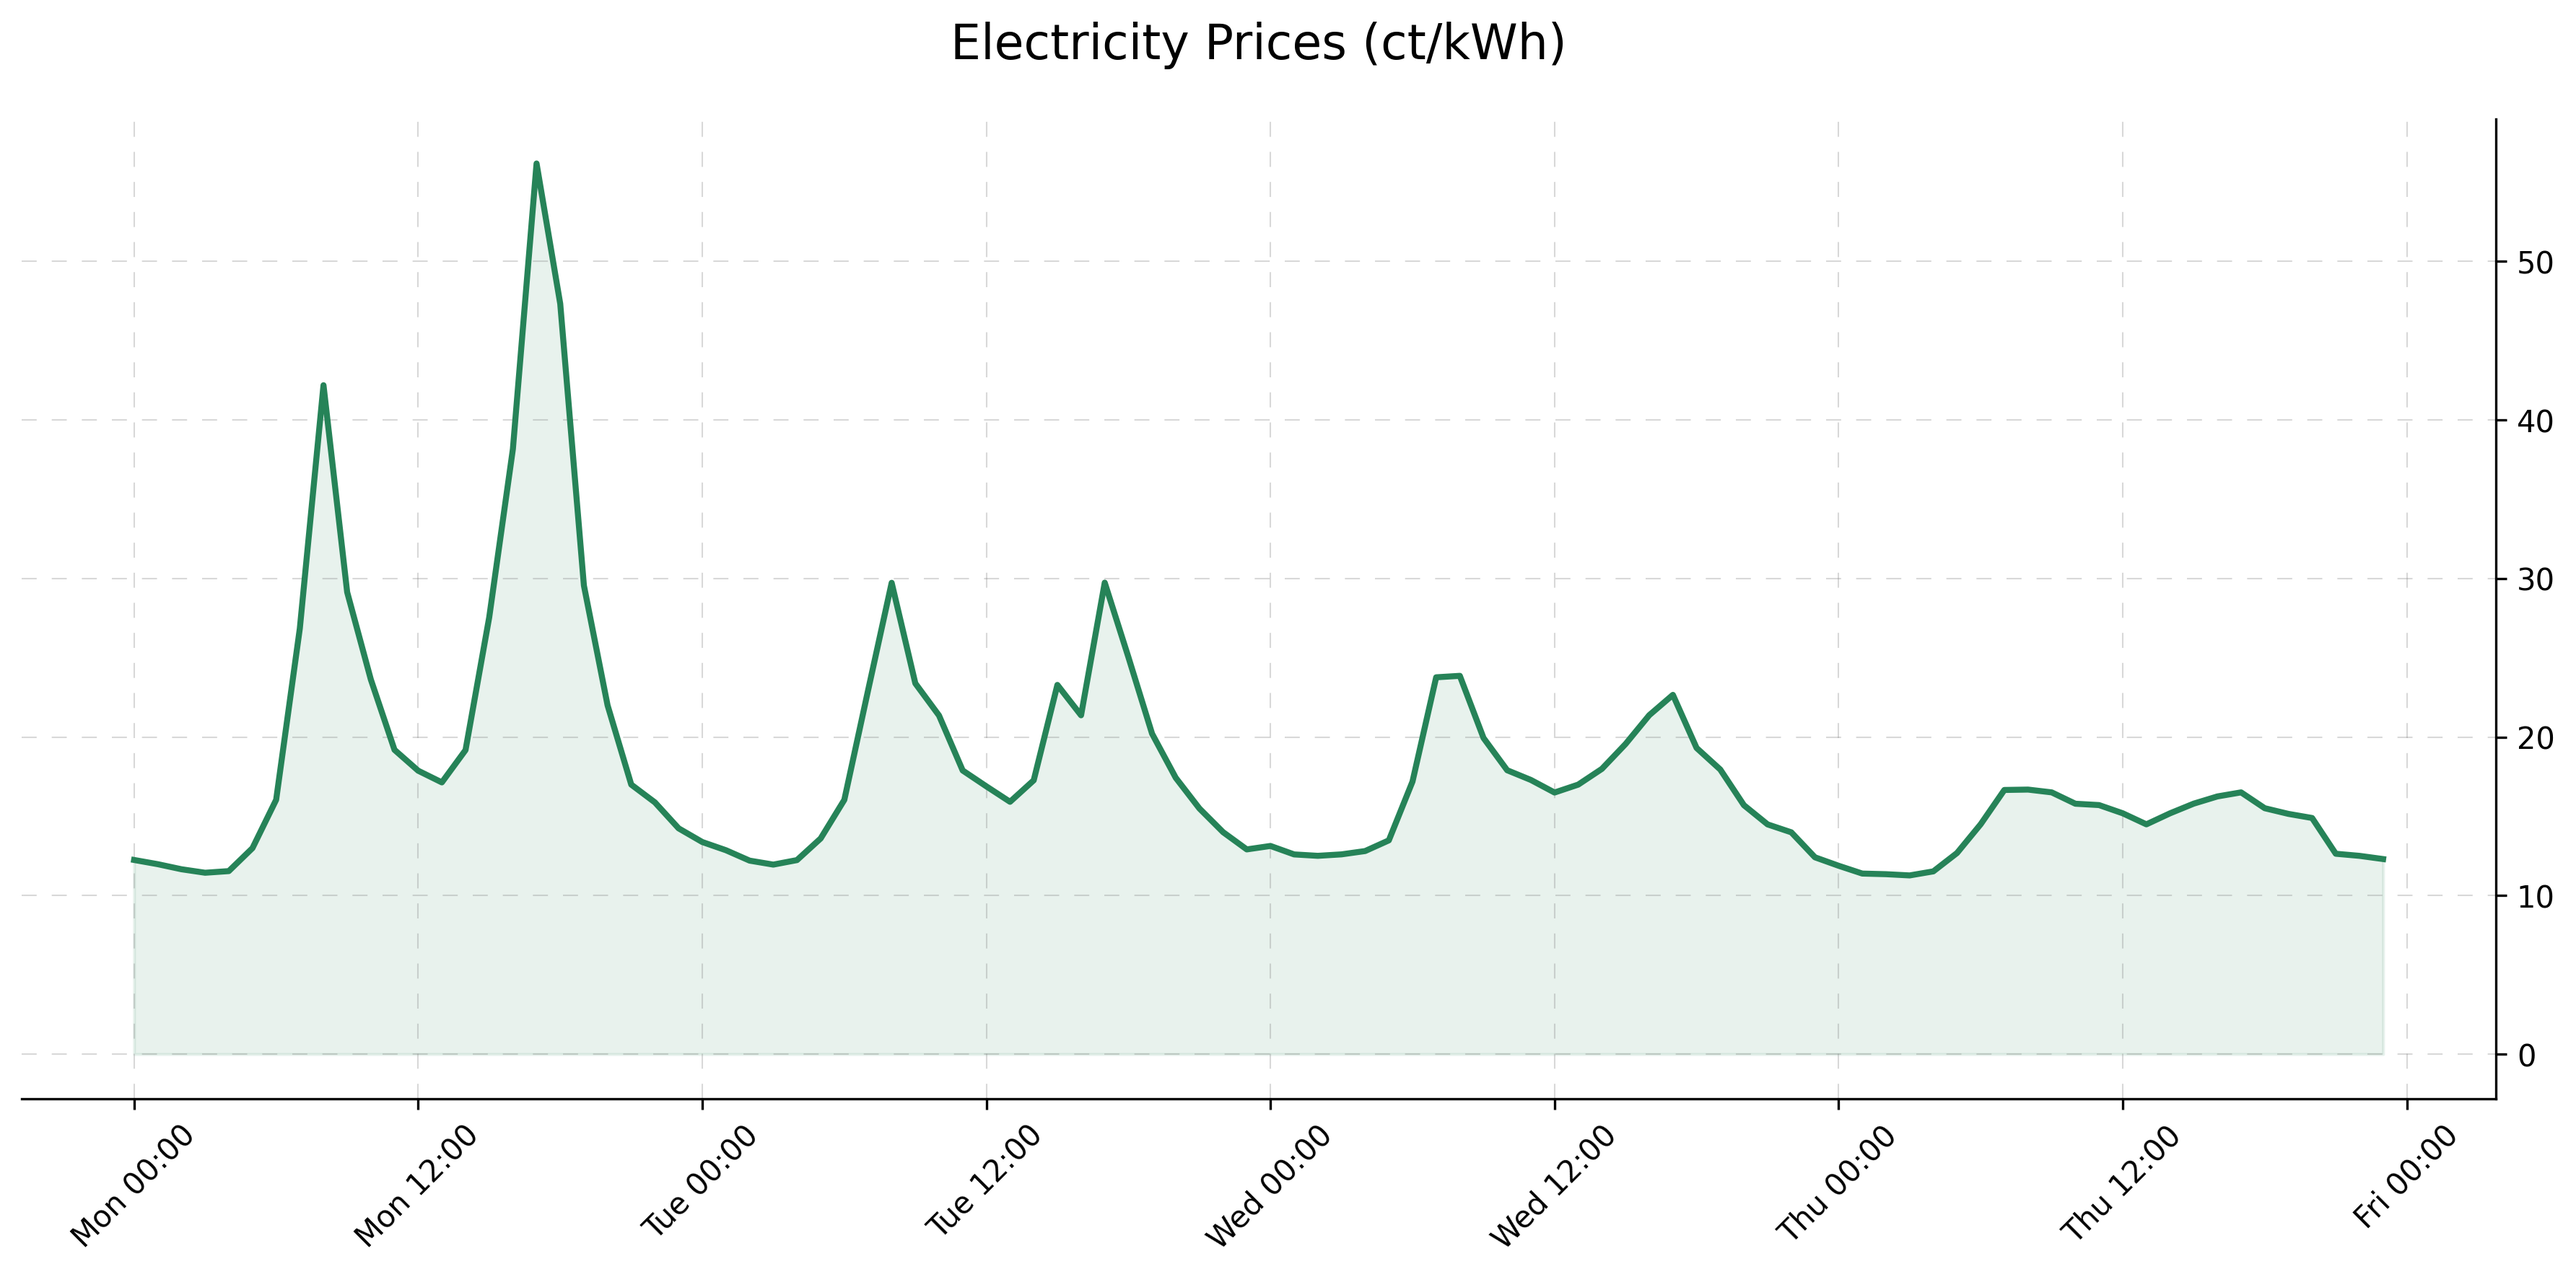
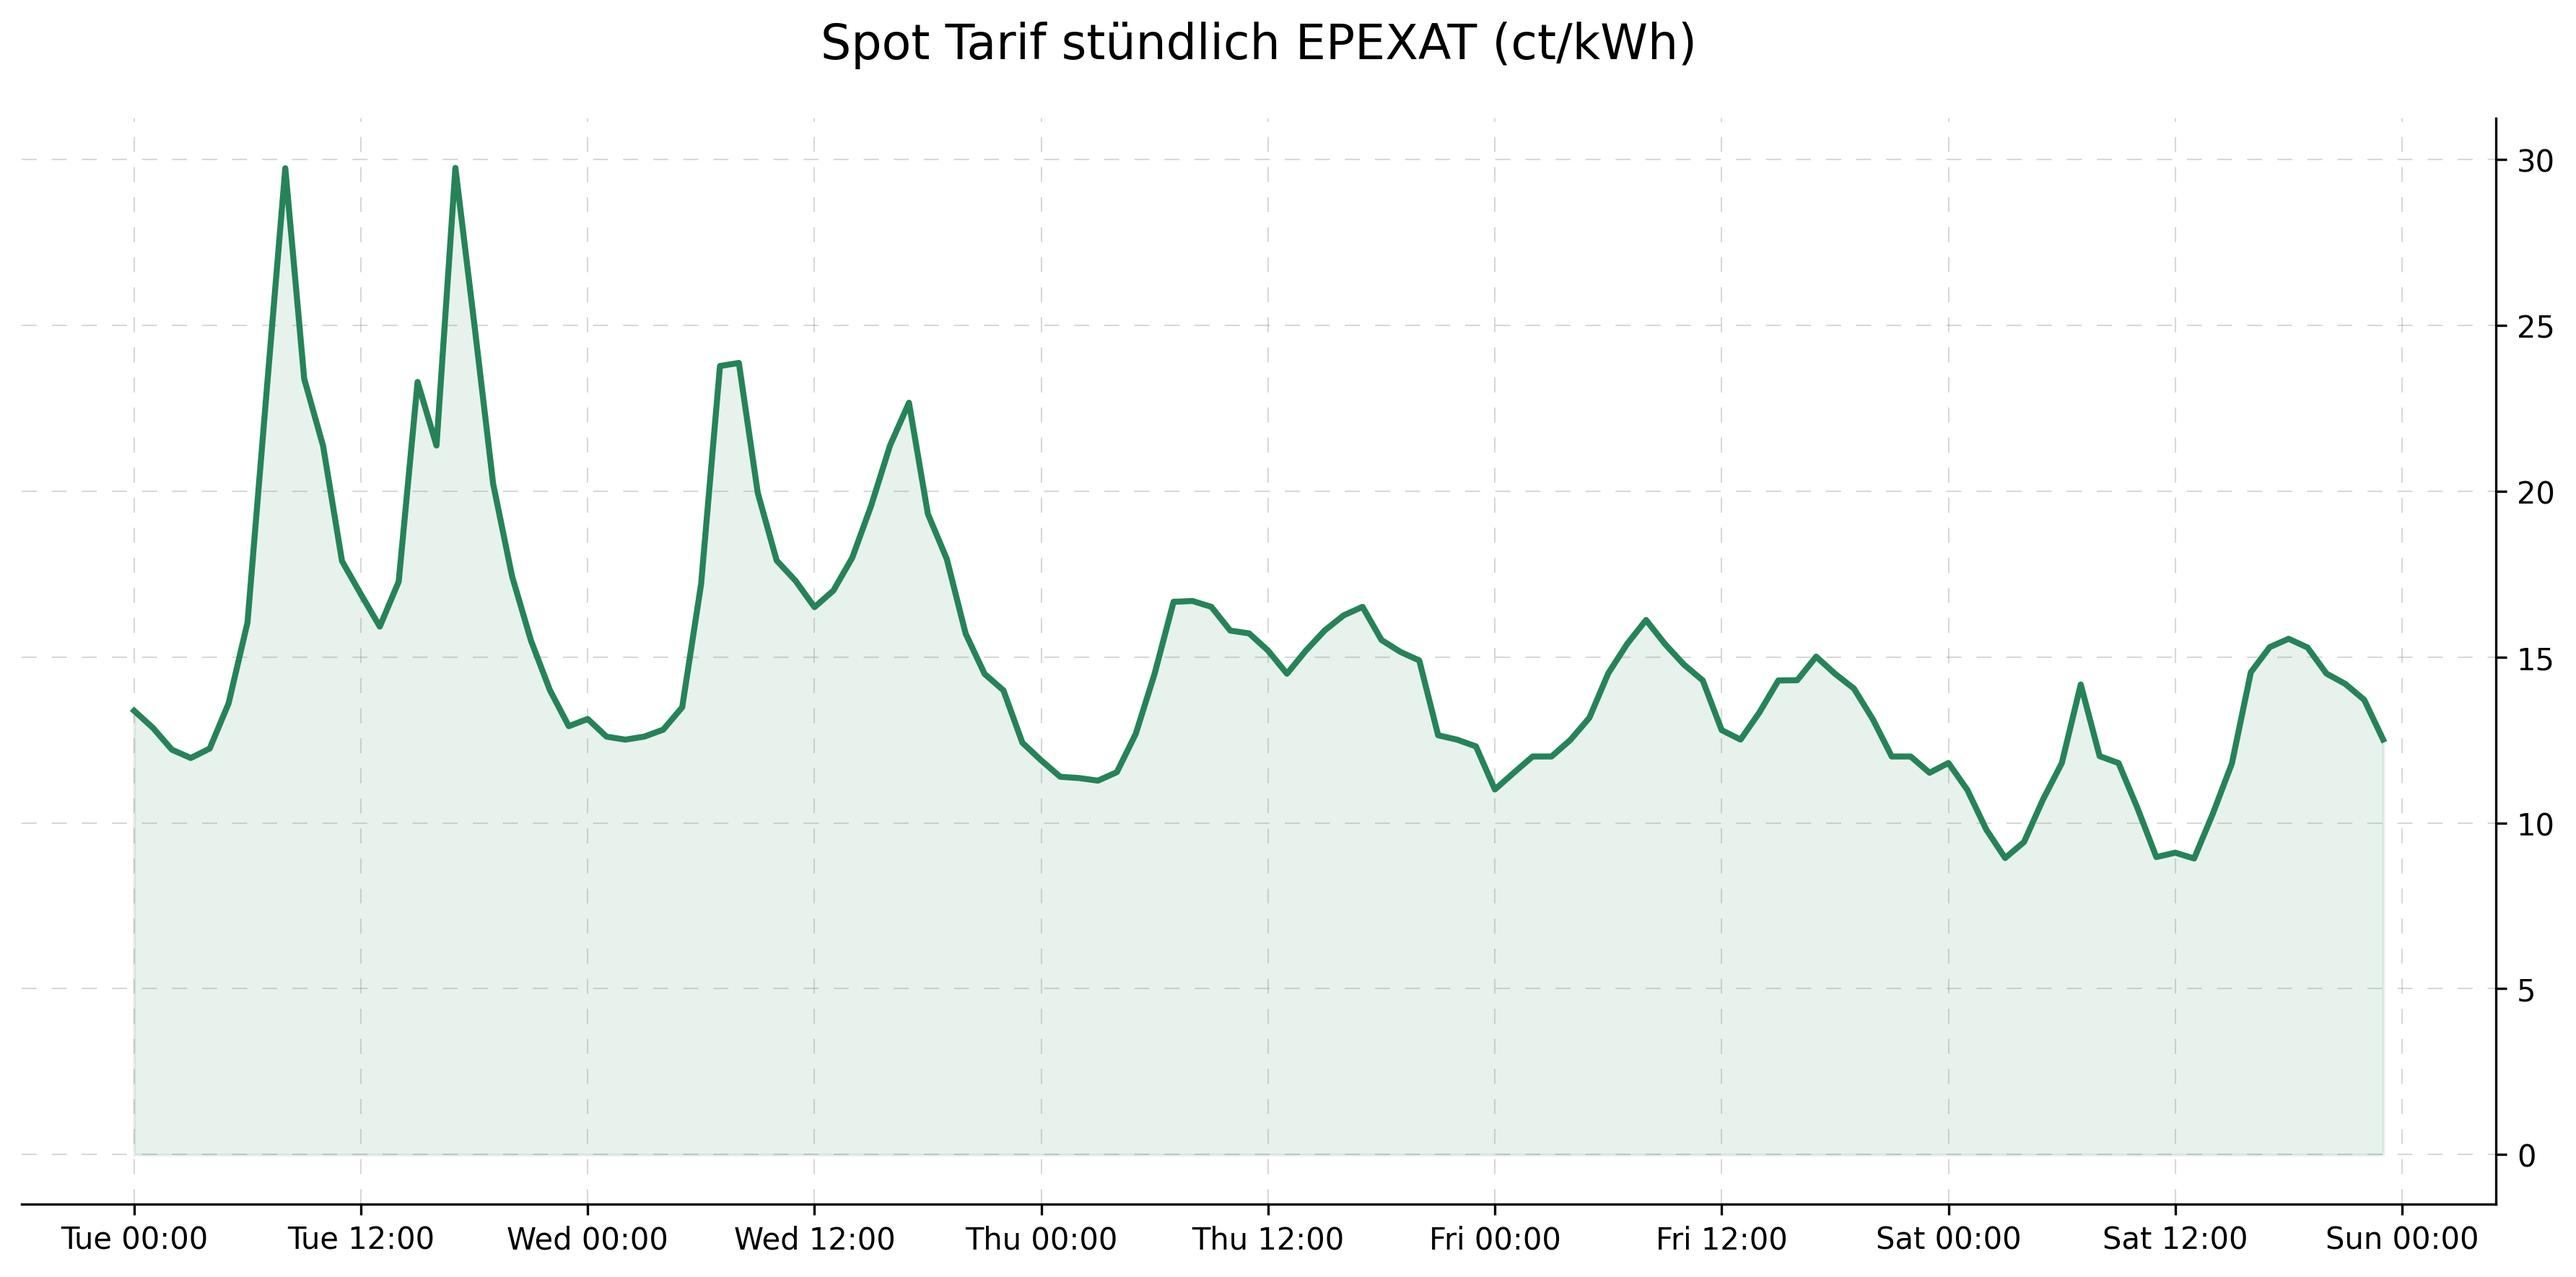
svg gen

diff --git a/tests/test_chart.py b/tests/test_chart.py
@@ -55,12 +55,13 @@ def print_chart(prices, width=80, height=15):
 
 
 # tests/test_chart.py
-def show_last_days(days=3):
+def show_last_days(days=2):
     db_file = CONFIG['db_path'] / CONFIG['db_file']
     engine = create_engine(f'sqlite:///{db_file}')
     
     today = datetime.now().date()
-    end_time = datetime.combine(today, datetime.max.time())
+    tomorrow = today + timedelta(days=1)
+    end_time = datetime.combine(tomorrow, datetime.max.time())
     start_time = datetime.combine(today - timedelta(days=days), datetime.min.time())
     
     with Session(engine) as session:

diff --git a/tests/test_dbstats.py b/tests/test_dbstats.py
@@ -76,7 +76,7 @@ def test_db_listvalues(day: datetime, source: str = 'awattar'):
 
 if __name__ == "__main__":
 #    yesterday = datetime.now() - timedelta(days=1)
-    test_db_stats(day= datetime.now() - timedelta(days=5) )
+    test_db_stats(day= datetime.now() - timedelta(days=0) )
 #    test_db_listvalues(day=datetime.now(), source='awattar')
 #    test_db_listvalues(day=datetime.now(), source='smartenergy')
     # pls list all the prices for today from the db
